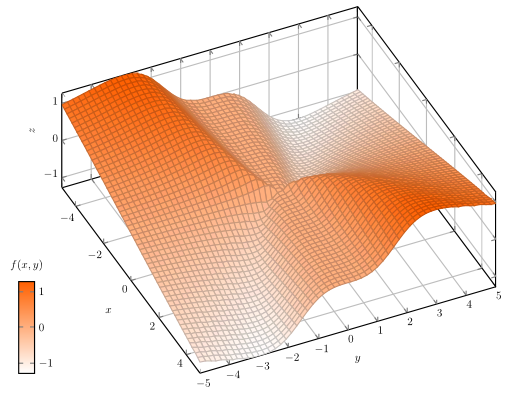
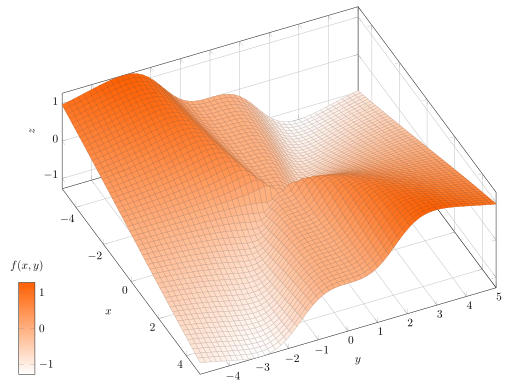
Remove -5 as it can be confused with x-axis label

diff --git a/tikz/3d-function-7/3d-function-7.tex b/tikz/3d-function-7/3d-function-7.tex
@@ -2,6 +2,7 @@
 \usepackage[pdftex,active,tightpage]{preview}
 \setlength\PreviewBorder{2mm}
 \usepackage{pgfplots}
+\pgfplotsset{compat=1.13}
 
 \begin{document}
 \begin{preview}
@@ -19,7 +20,7 @@
     enlargelimits=false,
     grid=major,
     domain=-5:5,
-    y domain=-5:5,
+    y domain=-4.99:5,
     samples=56, %57 : TeX capacity exceeded, sorry [main memory size=3000000].
                 % see also http://tex.stackexchange.com/a/7954/5645
     xlabel=$x$,
